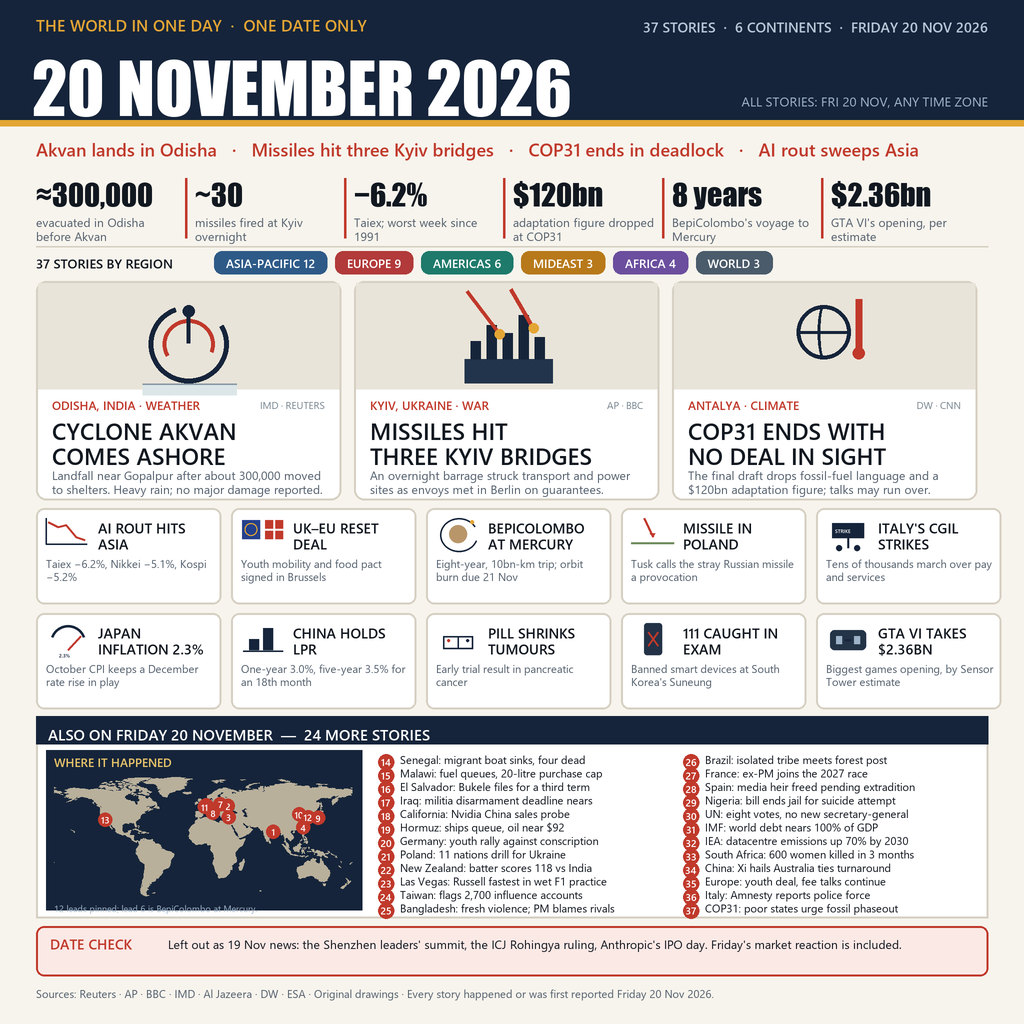
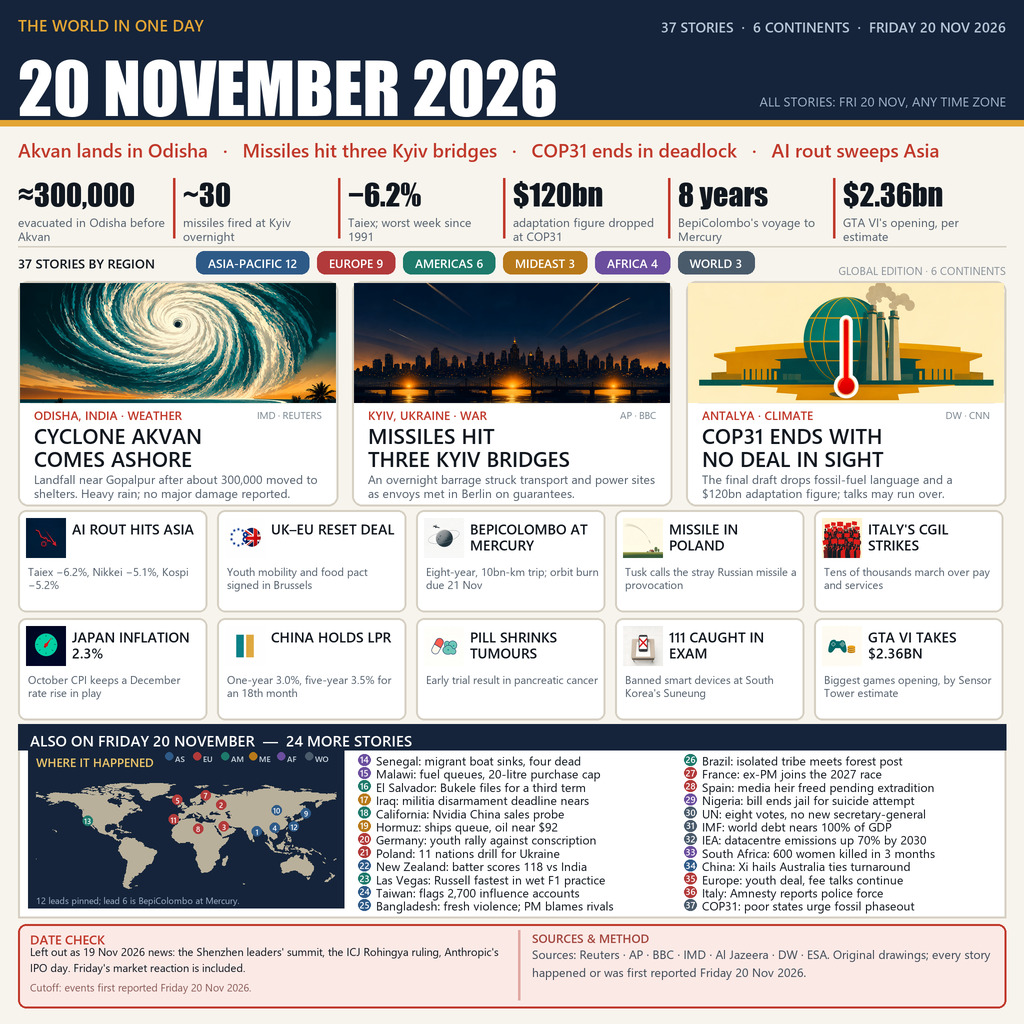
Final generated-art edition with refined layout and compact JPEG

diff --git a/NEWS_SOURCES.md b/NEWS_SOURCES.md
@@ -12,4 +12,4 @@ Key checks:
 - UK–EU summit: BBC, FT, Euronews. Youth mobility and food agreements signed in Brussels.
 - Other briefs: Reuters, AP, BBC, AFP, IMD, DW and Al Jazeera coverage dated 20 Nov 2026.
 
-All hero and thumbnail illustrations were generated locally from text-only prompts with no reference photograph, using `gambar` with `--turbo` (INT8): three `--ar 16:9` heroes (2688x1536) and ten `--ar 1:1` thumbnails (2048x2048). They were centre-cropped and downsampled; all text, numbers, map and pins remain original vector drawing. No third-party artwork or photographs are used.
+All hero and thumbnail illustrations were generated locally from text-only prompts with no reference photograph, using `gambar` with `--turbo` (INT8): three `--ar 16:9` heroes (2688x1536) and ten `--ar 1:1` thumbnails (2048x2048). They were centre-cropped and downsampled, and the final artifact is a quality-92 JPEG stored under the required entry.png name; all text, numbers, map and pins remain original vector drawing. No third-party artwork or photographs are used.
